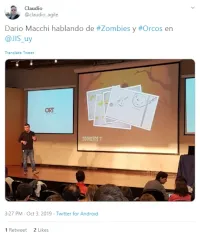
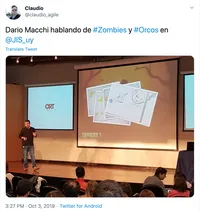
Fix quality of some images of /jis-uy-2019-scrum-zombies-and-orcs-teams

diff --git a/www/jis-uy-2019-scrum-zombies-and-orcs-teams.html b/www/jis-uy-2019-scrum-zombies-and-orcs-teams.html
@@ -1274,39 +1274,39 @@ happy to help.
         <img src="/assets/thumbs/z-nd-o-jis-uy-2019-9.jpg" alt="" />
       </picture>
     </a>
-    <a itemprop="image" data-fancybox="gallery" href="/assets/z-nd-o-jis-uy-2019-media1.jpg" class="fancybox lightbox_link" rel="challenge" title="">
+    <a itemprop="image" data-fancybox="gallery" href="/assets/z-nd-o-jis-uy-2019-media1.png" class="fancybox lightbox_link" rel="challenge" title="">
       <picture>
         <source srcset="/assets/thumbs/z-nd-o-jis-uy-2019-media1.webp" type="image/webp">
 
-        <img src="/assets/thumbs/z-nd-o-jis-uy-2019-media1.jpg" alt="" />
+        <img src="/assets/thumbs/z-nd-o-jis-uy-2019-media1.png" alt="" />
       </picture>
     </a>
-    <a itemprop="image" data-fancybox="gallery" href="/assets/z-nd-o-jis-uy-2019-media2.jpg" class="fancybox lightbox_link" rel="challenge" title="">
+    <a itemprop="image" data-fancybox="gallery" href="/assets/z-nd-o-jis-uy-2019-media2.png" class="fancybox lightbox_link" rel="challenge" title="">
       <picture>
         <source srcset="/assets/thumbs/z-nd-o-jis-uy-2019-media2.webp" type="image/webp">
 
-        <img src="/assets/thumbs/z-nd-o-jis-uy-2019-media2.jpg" alt="" />
+        <img src="/assets/thumbs/z-nd-o-jis-uy-2019-media2.png" alt="" />
       </picture>
     </a>
-    <a itemprop="image" data-fancybox="gallery" href="/assets/z-nd-o-jis-uy-2019-media3.jpg" class="fancybox lightbox_link" rel="challenge" title="">
+    <a itemprop="image" data-fancybox="gallery" href="/assets/z-nd-o-jis-uy-2019-media3.png" class="fancybox lightbox_link" rel="challenge" title="">
       <picture>
         <source srcset="/assets/thumbs/z-nd-o-jis-uy-2019-media3.webp" type="image/webp">
 
-        <img src="/assets/thumbs/z-nd-o-jis-uy-2019-media3.jpg" alt="" />
+        <img src="/assets/thumbs/z-nd-o-jis-uy-2019-media3.png" alt="" />
       </picture>
     </a>
-    <a itemprop="image" data-fancybox="gallery" href="/assets/z-nd-o-jis-uy-2019-media4.jpg" class="fancybox lightbox_link" rel="challenge" title="">
+    <a itemprop="image" data-fancybox="gallery" href="/assets/z-nd-o-jis-uy-2019-media4.png" class="fancybox lightbox_link" rel="challenge" title="">
       <picture>
         <source srcset="/assets/thumbs/z-nd-o-jis-uy-2019-media4.webp" type="image/webp">
 
-        <img src="/assets/thumbs/z-nd-o-jis-uy-2019-media4.jpg" alt="" />
+        <img src="/assets/thumbs/z-nd-o-jis-uy-2019-media4.png" alt="" />
       </picture>
     </a>
-    <a itemprop="image" data-fancybox="gallery" href="/assets/z-nd-o-jis-uy-2019-media5.jpg" class="fancybox lightbox_link" rel="challenge" title="">
+    <a itemprop="image" data-fancybox="gallery" href="/assets/z-nd-o-jis-uy-2019-media5.png" class="fancybox lightbox_link" rel="challenge" title="">
       <picture>
         <source srcset="/assets/thumbs/z-nd-o-jis-uy-2019-media5.webp" type="image/webp">
 
-        <img src="/assets/thumbs/z-nd-o-jis-uy-2019-media5.jpg" alt="" />
+        <img src="/assets/thumbs/z-nd-o-jis-uy-2019-media5.png" alt="" />
       </picture>
     </a>
   </section>

diff --git a/www/react-native-notes.html b/www/react-native-notes.html
@@ -427,6 +427,10 @@ http://www.dariomac.com -->
 It has a renderItem function reponsible of render reach item of the list from an array (by prop). Comparing with web React approach (iterate rendering each item inside the loop), Flatlist has a lot of internal optimizations.</p>
 <p>renderItem function receives a element as parameter. element.item has each item of the data and element.index is just that, the index of the element inside the data prop.</p>
 <p>Each element should have a key that must be a string, consistent between renders and unique. keyExtractor is a prop of the FlatList that is a function that receives each element of the data array, build and return the expected key.</p>
+<p><strong>Button &amp; TouchableOpacity</strong>
+Button is simple, but is limited... it has a default styling. On the other side there is the TouchableOpacity that is very customizable.</p>
+<p><strong>Stack Navigator</strong>
+It decides what to show in scren at any time. It pass a navigation object inside the prop to components. If you call navigation.navigate with a string of the router object (defined at initialization), you will load a new component.</p>
 <h2>20200512</h2>
 <p><a href="https://reactnavigation.org/">React Navigation</a></p>
 <p>StyleSheet.create is useful instead of styling inline style={{ ... }} because if you make a mistake with the first, it shows an big red error instead of just a yellow warning (as with the inline style).</p>
